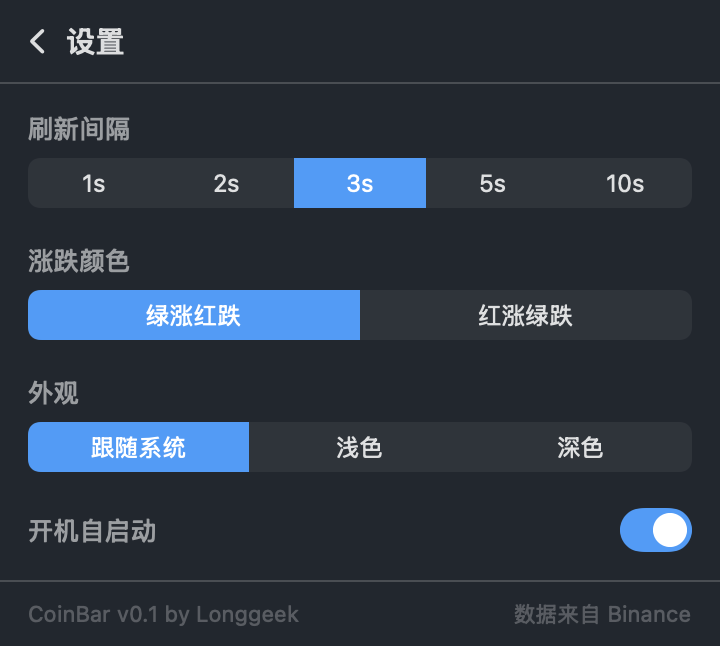
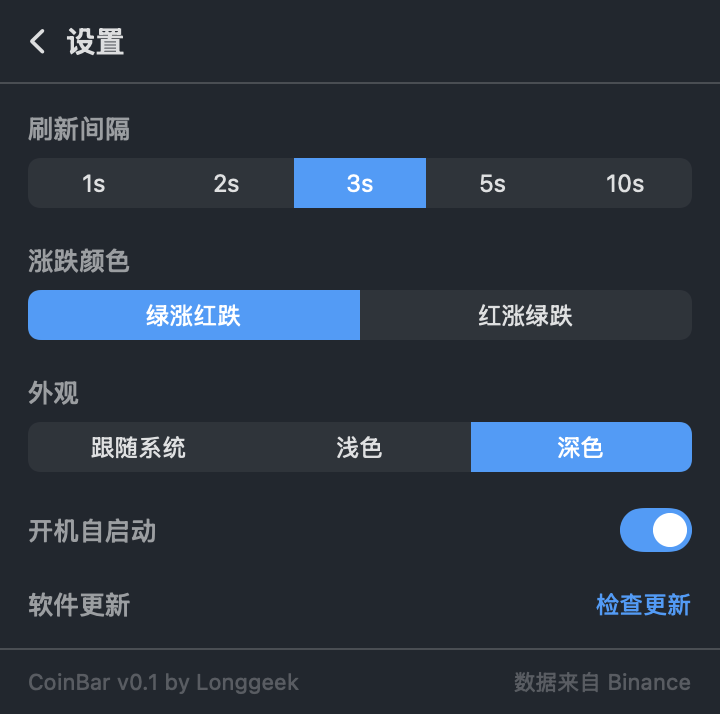
feat: 接入 Sparkle 自动更新(EdDSA 自签),设置加「检查更新」
- AppDelegate 启动 SPUStandardUpdaterController,自动后台检查更新
- Info.plist 配 SUFeedURL + SUPublicEDKey + 每日检查;版本 → 0.1.1
- build.sh 嵌入并签名 Sparkle.framework(rpath @user_path/../Frameworks)
- 新增 release.sh:构建 + ditto 打包 + EdDSA 签名 + 生成 appcast.xml

diff --git a/Sources/CoinBar/SettingsView.swift b/Sources/CoinBar/SettingsView.swift
@@ -21,6 +21,13 @@ struct SettingsView: View {
                     Spacer()
                     launchControl
                 }
+                HStack {
+                    Text("软件更新").font(Theme.rounded(13, weight: .medium)).foregroundStyle(.secondary)
+                    Spacer()
+                    Button("检查更新") { model.onCheckForUpdates?() }
+                        .buttonStyle(.plain).font(.system(size: 12, weight: .medium))
+                        .foregroundStyle(skin.accent)
+                }
             }
             .padding(14)
             .tint(skin.accent)   // 分段控件/开关选中色与外部按钮统一

diff --git a/Sources/CoinBar/CoinBarApp.swift b/Sources/CoinBar/CoinBarApp.swift
@@ -1,6 +1,7 @@
 import SwiftUI
 import AppKit
 import Combine
+import Sparkle
 
 /// 自管理的菜单栏应用外壳:NSStatusItem(彩色标签) + 自定义可成为 key 的 NSPanel。
 ///
@@ -15,6 +16,8 @@ final class AppDelegate: NSObject, NSApplicationDelegate, NSWindowDelegate {
     private var hosting: NSHostingView<RootContent>?
     private var labelObserver: AnyCancellable?
     private var lastClose: Date?
+    private lazy var updaterController = SPUStandardUpdaterController(
+        startingUpdater: true, updaterDelegate: nil, userDriverDelegate: nil)
 
     func applicationDidFinishLaunching(_ notification: Notification) {
         statusItem = NSStatusBar.system.statusItem(withLength: NSStatusItem.variableLength)
@@ -25,6 +28,8 @@ final class AppDelegate: NSObject, NSApplicationDelegate, NSWindowDelegate {
         labelObserver = model.objectWillChange
             .receive(on: RunLoop.main)
             .sink { [weak self] in MainActor.assumeIsolated { self?.updateLabel() } }
+        _ = updaterController   // 启动 Sparkle 自动更新检查
+        model.onCheckForUpdates = { [weak self] in self?.updaterController.checkForUpdates(nil) }
     }
 
     // MARK: 菜单栏彩色标签(非模板 NSImage,保留绿/红)

diff --git a/Package.swift b/Package.swift
@@ -4,9 +4,13 @@ import PackageDescription
 let package = Package(
     name: "CoinBar",
     platforms: [.macOS(.v13)],
+    dependencies: [
+        .package(url: "https://github.com/sparkle-project/Sparkle", from: "2.6.0")
+    ],
     targets: [
         .executableTarget(
             name: "CoinBar",
+            dependencies: [.product(name: "Sparkle", package: "Sparkle")],
             path: "Sources/CoinBar"
         )
     ]

diff --git a/Sources/CoinBar/TickerModel.swift b/Sources/CoinBar/TickerModel.swift
@@ -17,6 +17,7 @@ final class TickerModel: ObservableObject {
     @Published var redUp: Bool                    // true=红涨绿跌(A股) / false=绿涨红跌
     @Published var appearance: String             // auto | light | dark
     @Published var launchAtLogin: Bool             // 开机自启动(SMAppService)
+    var onCheckForUpdates: (() -> Void)?           // 由 AppDelegate 注入(Sparkle 检查更新)
 
     private var prevPrice: [String: Double] = [:] // 变价闪烁基线
     @Published var flash: [String: Int] = [:]     // +1/-1/0